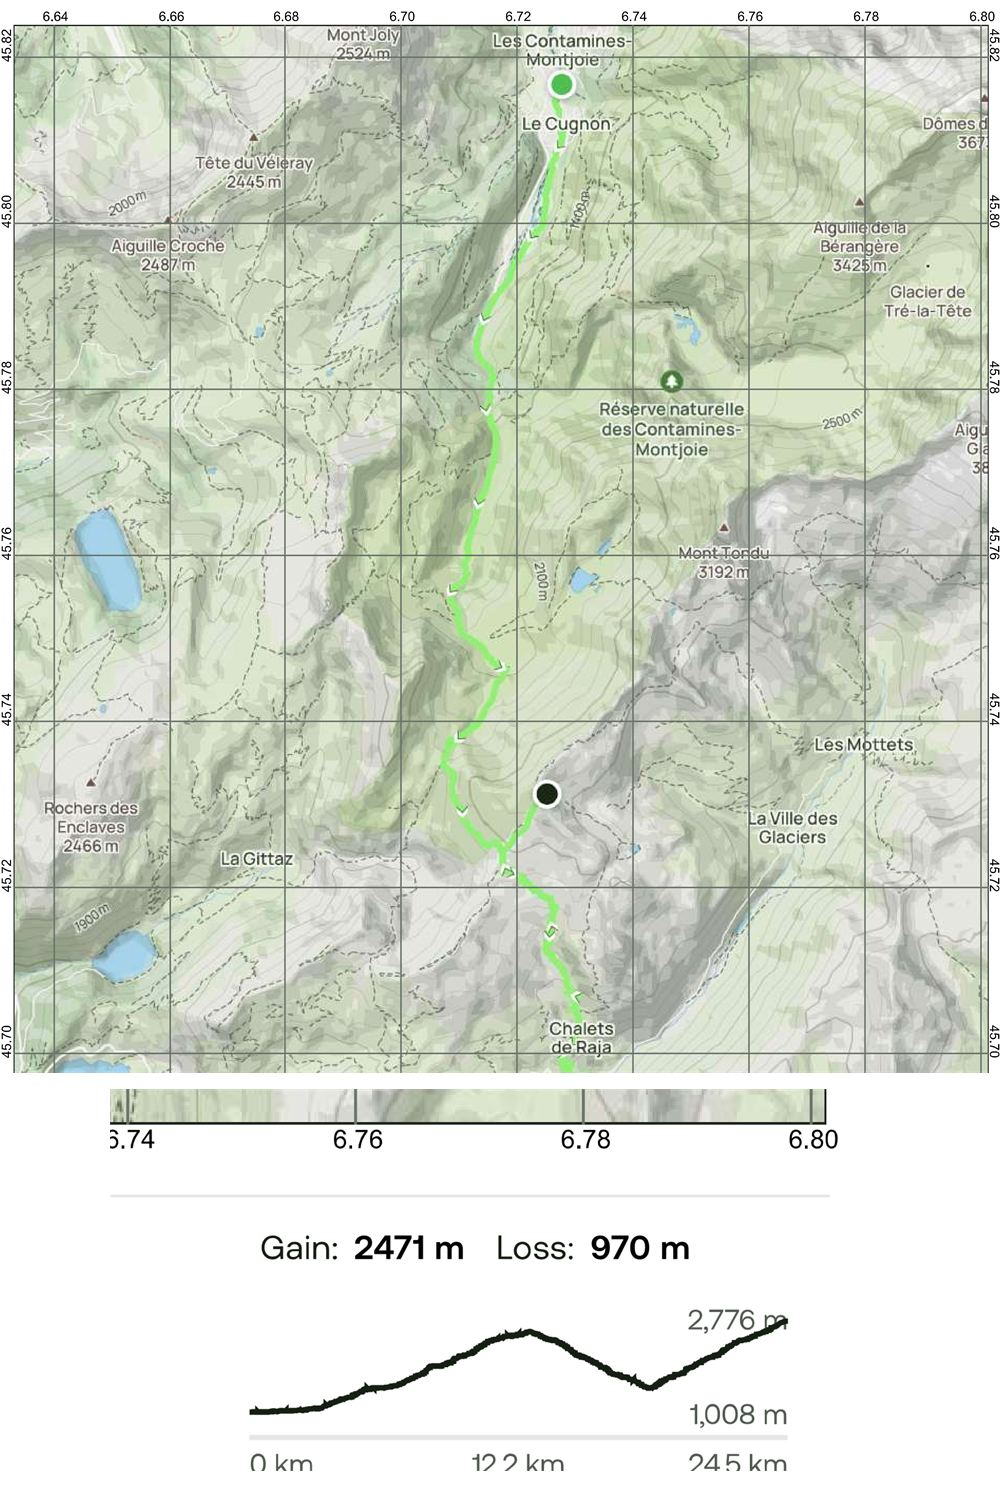
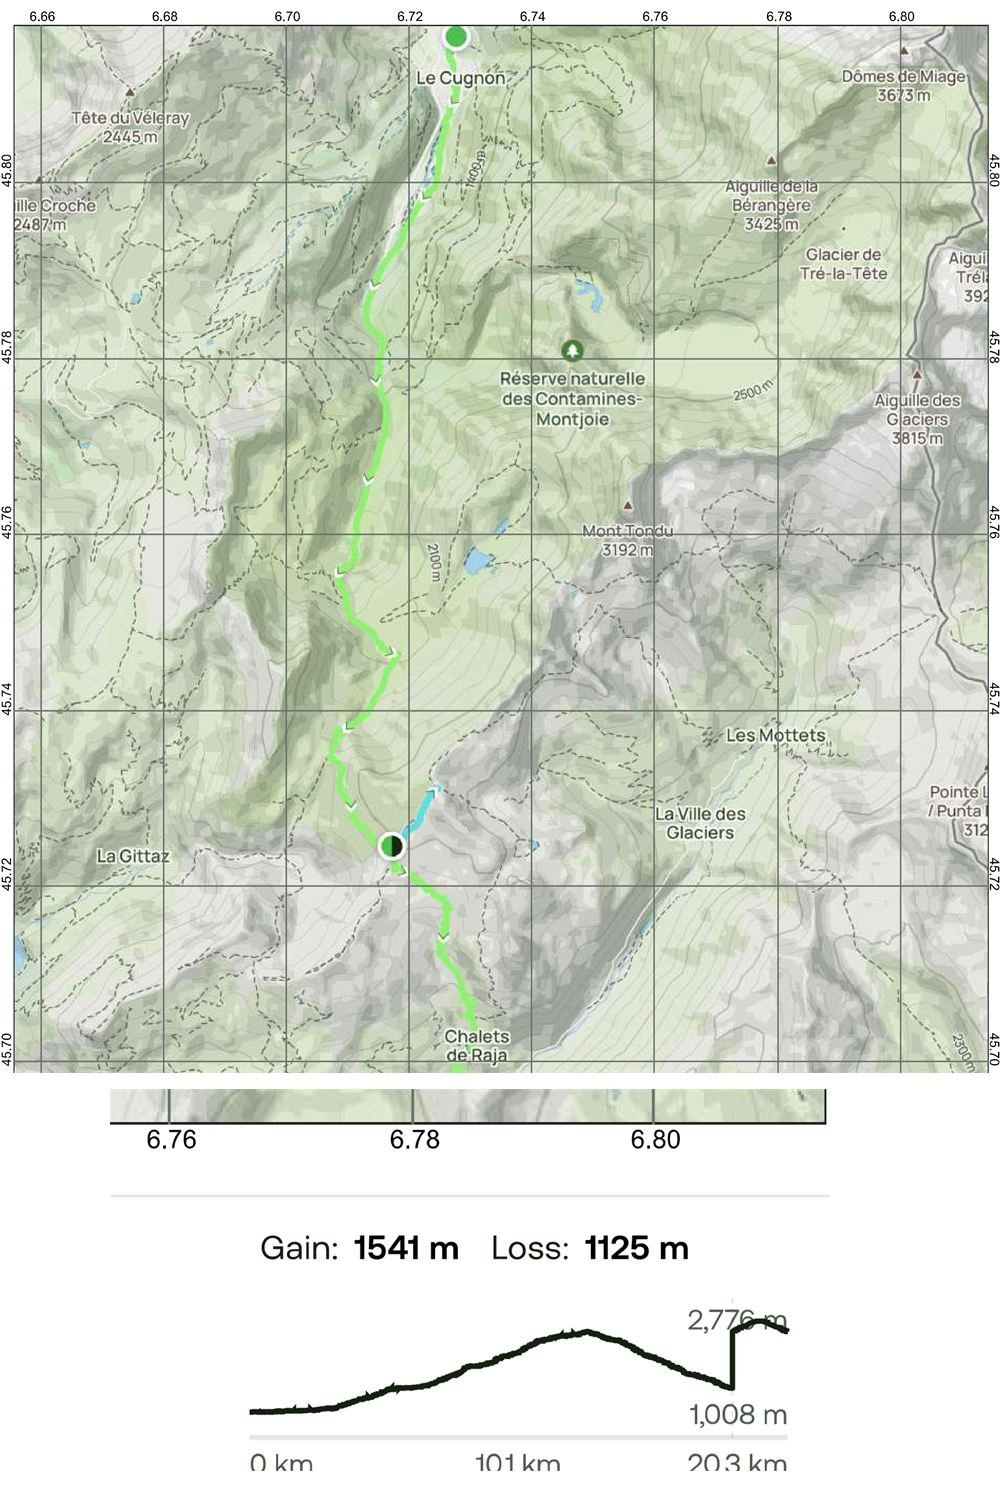
Day 2: corrected AllTrails route (now finishes at Les Chapieux)
Re-exported track: 20.3 km / +1,541 m / -1,125 m, ending at Les Chapieux
(the earlier route stopped at the Fours cols). Regenerate maps/day2.jpg,
drop the route-check warning, estimate time ~8.5-9.5 hr (PDF lists no time).
Trip totals now ~159 km / +9,952 m.

diff --git a/index.html b/index.html
@@ -170,15 +170,15 @@ const STAGES = [
    skip:"The 800 m climb out of Les Houches is already skipped by the Bellevue cable car (its final day of the season is 13 Sep, so it's running). Nothing else is dull enough to skip.",
    plans:[{grade:"Harder",tag:"⭐ planned · 📸 scenic",pref:true,label:"Les Houches → Col du Tricot (full walk)",at:"https://www.alltrails.com/trail/france/haute-savoie/tour-du-mont-blanc-etape-1-les-houches-les-contamines-variante",dist:"≈19.4 km",gain:"+1,544 m",loss:"−1,369 m",time:"9–9.5 hrs",why:"The full scenic day on foot from Les Houches: climb ~800 m to the Bellevue plateau, branch down to the Bionnassay glacier torrent, cross it on the swaying suspension bridge, over Col de Tricot (2,120 m), then drop via Chalets de Miage and Le Truc to Les Contamines. No cable car — you earn the whole ~1,850 m of ascent, so start very early."},{grade:"Easier",tag:"Cable car start · shorter",label:"Bellevue cable car → Col du Tricot",at:"https://www.alltrails.com/explore/custom-routes/custom-route-tour-du-mont-blanc-etape-1-bellevue-les-contamines-variante-32383fa",dist:"≈12.2 km",gain:"+688 m",loss:"−~1,325 m",time:"6–6.5 hrs",why:"The same Col de Tricot high route, but skip the initial ~800 m road-climb by riding the Bellevue cable car up (13 Sep is its last day of the 2026 season). Shorter and gentler — take an early train to catch the first cabin up."}],
    warns:[]},
-  {day:2,date:"14 Sep",from:"Les Contamines",to:"Les Chapieux",dist:"~24.5 km",gain:"+2,471 m",loss:"−970 m",time:"10.5–11.5 hrs",alt:"2,756 m",country:"FR",diff:5,
+  {day:2,date:"14 Sep",from:"Les Contamines",to:"Les Chapieux",dist:"~20.3 km",gain:"+1,541 m",loss:"−1,125 m",time:"~8.5–9.5 hrs",alt:"2,756 m",country:"FR",diff:5,
    notes:"First major climb over Col du Bonhomme. No shuttle bus today, walk from hotel. Buy your trail lunch in Les Contamines before leaving.",
    meals:{b:"Gaï Soleil, room only; breakfast 13€pp buffet optional",l:"Buy at Carrefour Montagne (310 m) or Proust (440 m) in Les Contamines before leaving",d:"Les Chambres du Soleil, half-board, fixed menu 19:00"},
    physio:"Pace the ascent conservatively, left hip will be working hard on sustained climbs. Rest stops every 40–50 min. Don't push the first big day.",
    weather:"Col du Bonhomme (2,329 m) is dangerously exposed in storm or whiteout and has no on-trail alternative. If the forecast is bad, wait a day in Les Contamines, or go around by road: taxi Les Contamines → Bourg-Saint-Maurice (~€70), then the seasonal Chapieux navette or a taxi up the Vallée des Glaciers to Les Chapieux.",
    escape:"Remote day. Refuge de la Croix du Bonhomme, just past the col, is the shelter and help point. Before the col: return to Les Contamines, taxi → Bourg-Saint-Maurice, then navette/taxi to Les Chapieux. After the col: it is downhill to the Les Chapieux road-head where a Bourg-Saint-Maurice taxi (~€60) can collect. Les Chapieux is zone blanche, arrange any pickup before you lose signal.",
    skip:"Dull bit: the flat first ~5 km (Les Contamines → Notre-Dame de la Gorge). The free navette from the Les Contamines tourist office skips it (summer shuttle, confirm it still runs mid-Sept).",
-   plans:[{grade:"Standard",tag:"⭐ TMB classic",label:"Planned: Col du Bonhomme + Croix du Bonhomme",dist:"≈18.5 km",gain:"+1,316 m",loss:"−929 m",time:"7–9 hrs",why:"The standard TMB: from Notre-Dame de la Gorge climb over Col du Bonhomme (2,329 m) and the Croix du Bonhomme (2,483 m), then descend to Les Chapieux."},{grade:"Harder",tag:"📸 Most scenic",pref:true,label:"Col des Fours + Tête Nord des Fours summit",at:"https://www.alltrails.com/explore/custom-routes/custom-route-tour-du-mont-blanc-etape-2-les-contamines-les-chapieux-3fbbd6f",dist:"≈24.5 km",gain:"+2,471 m",loss:"−970 m",time:"10.5–11.5 hrs",why:"From the Croix du Bonhomme, climb the higher Col des Fours (2,665 m) with a short optional detour up to the Tête Nord des Fours summit for a 360° panorama of Mont Blanc and the Beaufortain. More exposed and snow-prone, and a longer day, so start earlier to reach Les Chapieux before the 19:00 dinner. Skip in bad weather."}],
-   warns:["📵 Zone blanche — no phone signal all day, agree any plans in advance","🥪 Day 2 lunch is NOT provided — buy in Les Contamines before leaving","⚠️ Route check: the saved AllTrails route stops up at the Fours cols (loss only 970 m) and doesn't yet include the final ~1,100 m descent into Les Chapieux — extend it in AllTrails and re-export so the stats cover the whole day"]},
+   plans:[{grade:"Standard",tag:"⭐ TMB classic",label:"Planned: Col du Bonhomme + Croix du Bonhomme",dist:"≈18.5 km",gain:"+1,316 m",loss:"−929 m",time:"7–9 hrs",why:"The standard TMB: from Notre-Dame de la Gorge climb over Col du Bonhomme (2,329 m) and the Croix du Bonhomme (2,483 m), then descend to Les Chapieux."},{grade:"Harder",tag:"📸 Most scenic",pref:true,label:"Col des Fours + Tête Nord des Fours summit",at:"https://www.alltrails.com/explore/custom-routes/custom-route-tour-du-mont-blanc-etape-2-les-contamines-les-chapieux-3fbbd6f",dist:"≈20.3 km",gain:"+1,541 m",loss:"−1,125 m",time:"~8.5–9.5 hrs",why:"From the Croix du Bonhomme, climb the higher Col des Fours (2,665 m) with a short optional detour up to the Tête Nord des Fours summit for a 360° panorama of Mont Blanc and the Beaufortain. More exposed and snow-prone, and a longer day, so start earlier to reach Les Chapieux before the 19:00 dinner. Skip in bad weather."}],
+   warns:["📵 Zone blanche — no phone signal all day, agree any plans in advance","🥪 Day 2 lunch is NOT provided — buy in Les Contamines before leaving"]},
   {day:3,date:"15 Sep",from:"Les Chapieux",to:"Courmayeur",dist:"~21 km",gain:"+~1,300 m",loss:"−~1,650 m",time:"8–10 hrs",alt:"2,516 m",country:"IT",diff:4,
    notes:"Into Italy via Col de la Seigne (2,516 m), the scenic high point. Two dull bits bookend the day: the flat first ~5 km (Les Chapieux → Ville des Glaciers, skip it with the shuttle) and, on the low finish, the Val Veny valley road. The real TMB stays HIGH after Lac Combal over the Mont Favre balcony (2,430 m) into Courmayeur for the best views of the trip. Pick your version in the route options below.",
    meals:{b:"Les Chambres du Soleil",l:"Packed lunch from Les Chambres du Soleil (ordered, 24€ on arrival)",d:"⭐ BOOK BEFORE LEAVING SYDNEY: Brasserie du Vieux Courmayeur or La Terrazza (can 3rd person join?)"},
@@ -501,7 +501,7 @@ function app(){
 function rOverview(){
   const pd=gDone(),pt=gTotal(),td=tDone(),tt=tTotal();
   return`<div class="g3" style="margin-bottom:12px">
-  ${[{v:"~163",u:"km",l:"Total Distance"},{v:"+10,882",u:"m",l:"Total Ascent"},{v:"3",u:"countries",l:"FR · IT · CH"},{v:"10",u:"days",l:"Trail Days"},{v:"11",u:"nights",l:"Accommodation booked"},{v:"10",u:"Sep",l:"SYD Departure"}].map(x=>`<div class="sc"><div class="sv">${x.v}<span class="u">${x.u}</span></div><div class="sl">${x.l}</div></div>`).join("")}
+  ${[{v:"~159",u:"km",l:"Total Distance"},{v:"+9,952",u:"m",l:"Total Ascent"},{v:"3",u:"countries",l:"FR · IT · CH"},{v:"10",u:"days",l:"Trail Days"},{v:"11",u:"nights",l:"Accommodation booked"},{v:"10",u:"Sep",l:"SYD Departure"}].map(x=>`<div class="sc"><div class="sv">${x.v}<span class="u">${x.u}</span></div><div class="sl">${x.l}</div></div>`).join("")}
 </div>
 <div class="g2" style="margin-bottom:12px">
   ${[{l:"Gear packed",d:pd,t:pt,c:"var(--for)"},{l:"To-Dos done",d:td,t:tt,c:"var(--amb)"}].map(w=>`<div class="sc"><div style="font-size:11px;color:var(--txL);margin-bottom:5px">${w.l}</div><div class="mbar"><div class="mfil" style="width:${Math.min(100,(w.d/w.t)*100)}%;background:${w.c}"></div></div><div style="font-size:12px;font-weight:500;color:${w.c}">${w.d}/${w.t}</div></div>`).join("")}
@@ -945,7 +945,7 @@ ${CAMPING.map(c=>`<div class="card" style="margin-bottom:10px">
 function rTotals(){
   const T=[
     {d:1,r:"Les Houches → Les Contamines · Col de Tricot (full walk) 📸",km:19.4,g:1544,l:1369},
-    {d:2,r:"Les Contamines → Les Chapieux · Col des Fours 📸",km:24.5,g:2471,l:970},
+    {d:2,r:"Les Contamines → Les Chapieux · Col des Fours 📸",km:20.3,g:1541,l:1125},
     {d:3,r:"Les Chapieux → Courmayeur · Mont Favre ⭐📸",km:21,g:1300,l:1650},
     {d:4,r:"Courmayeur, rest day",km:0,g:0,l:0,rest:true},
     {d:5,r:"Courmayeur → Rifugio Bonatti · Mont de la Saxe 📸",km:14,g:1360,l:600},
@@ -973,7 +973,7 @@ function rTotals(){
       <tbody>${rows}<tr style="font-weight:700"><td style="padding:7px"></td><td style="padding:7px">Trip total</td><td style="padding:7px;text-align:right;font-variant-numeric:tabular-nums">~${tk.toFixed(0)} km</td><td style="padding:7px;text-align:right;color:var(--ok);font-variant-numeric:tabular-nums">+${n(tg)}</td><td style="padding:7px;text-align:right;color:var(--it);font-variant-numeric:tabular-nums">−${n(tl)}</td></tr></tbody>
     </table></div>
   </div>
-  <div style="font-size:11px;color:var(--txL);margin-top:8px">Distances and elevations are approximate. Your scenic-pick route (~163 km) sits between the classic lower-variant line (~152 km) and the full standard TMB (~168 km). Change any stage's pick and this shifts.</div>`;
+  <div style="font-size:11px;color:var(--txL);margin-top:8px">Distances and elevations are approximate. Your scenic-pick route (~159 km) sits between the classic lower-variant line (~152 km) and the full standard TMB (~168 km). Change any stage's pick and this shifts.</div>`;
 }
 
 function rSplit(){